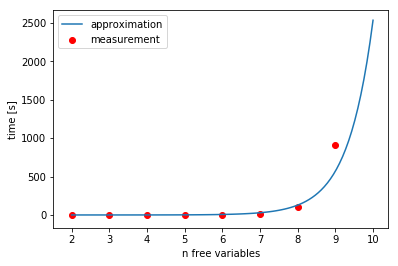
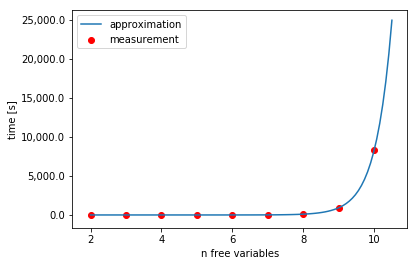
add measure point & correct math

diff --git a/measurements/README.md b/measurements/README.md
@@ -140,9 +140,23 @@ time(sudoku(A1, 7, 4, 6, 9, 2, 5, 8, 1,
              7, 9, 6, 1, 8, 5, 4, 2, I9)).
 % 15,133,049,151 inferences, 912.366 CPU in 913.484 seconds (100% CPU, 16586593 Lips)
 ```
+- 10 free variables
+    - Now, not all free variables can be "independent"
+```prolog
+time(sudoku(A1, 7, 4, 6, 9, 2, 5, 8, 1,
+             5, 6, 2, 8, 4, 1, 9, B8, 7,
+             8, 1, 9, C4, 5, 7, 6, 4, 2,
+             9, 2, D3, 5, 1, 6, 3, 7, 4,
+             E1, 3, 1, 9, E5, 8, 2, 6, 5,
+             6, 5, 7, 4, 2, 3, F7, 1, 9,
+             1, 8, 5, 2, 3, G6, 7, 9, 6,
+             2, H2, 3, 7, 6, 9, 1, 5, 8,
+             7, 9, 6, 1, 8, 5, 4, 2, I9)).
+% 135,793,811,262 inferences, 8318.733 CPU in 8328.944 seconds (100% CPU, 16323858 Lips)
+```
 
 ### Alternative Measurement
-When we measure a Sudoku where the free variables are diagonal, the result gets even worse. This just shows that the approach with "independent" variables could be considered a "best-case", and it is hard to extrapolate further.
+When we measure a Sudoku where the free variables are diagonal, the result gets worse. This just shows that the approach with "independent" variables (max. 9 free variables) could be considered a "best-case", and it is hard to extrapolate further.
 
 ```prolog
 time(sudoku(A1, 7, 4, 6, 9, 2, 5, 8, 1,
@@ -168,7 +182,18 @@ time(sudoku(A1, 7, 4, 6, 9, 2, 5, 8, 1,
 | 7   | 13.82  |
 | 8   | 102    |
 | 9   | 913.48 |
+| 10  | 8328.9 |
 
-As we can see in the [Measurement Analysis](measurement_analysis.ipynb), the time explodes exponentially. With a exponential curve fit, we see that 10 free variables would approximately take 42 hours, although it is hard to extrapolate from this small dataset.
+As we can see in the [Measurement Analysis](measurement_analysis.ipynb), the time explodes exponentially. With a exponential curve fit, we see that 12 free variables would approximately take over a week, although it is hard to extrapolate from this small dataset.
+
+
+| x  | approximate runtime |
+|----|---------------------|
+| 11 | 20.8 hours          |
+| 12 | 7.8 days            |
+| 13 | 2.35 months         |
+| 14 | 21.2 months         |
+| 15 | 16.1 years          |
+
 
 ![plot](plot.png)
